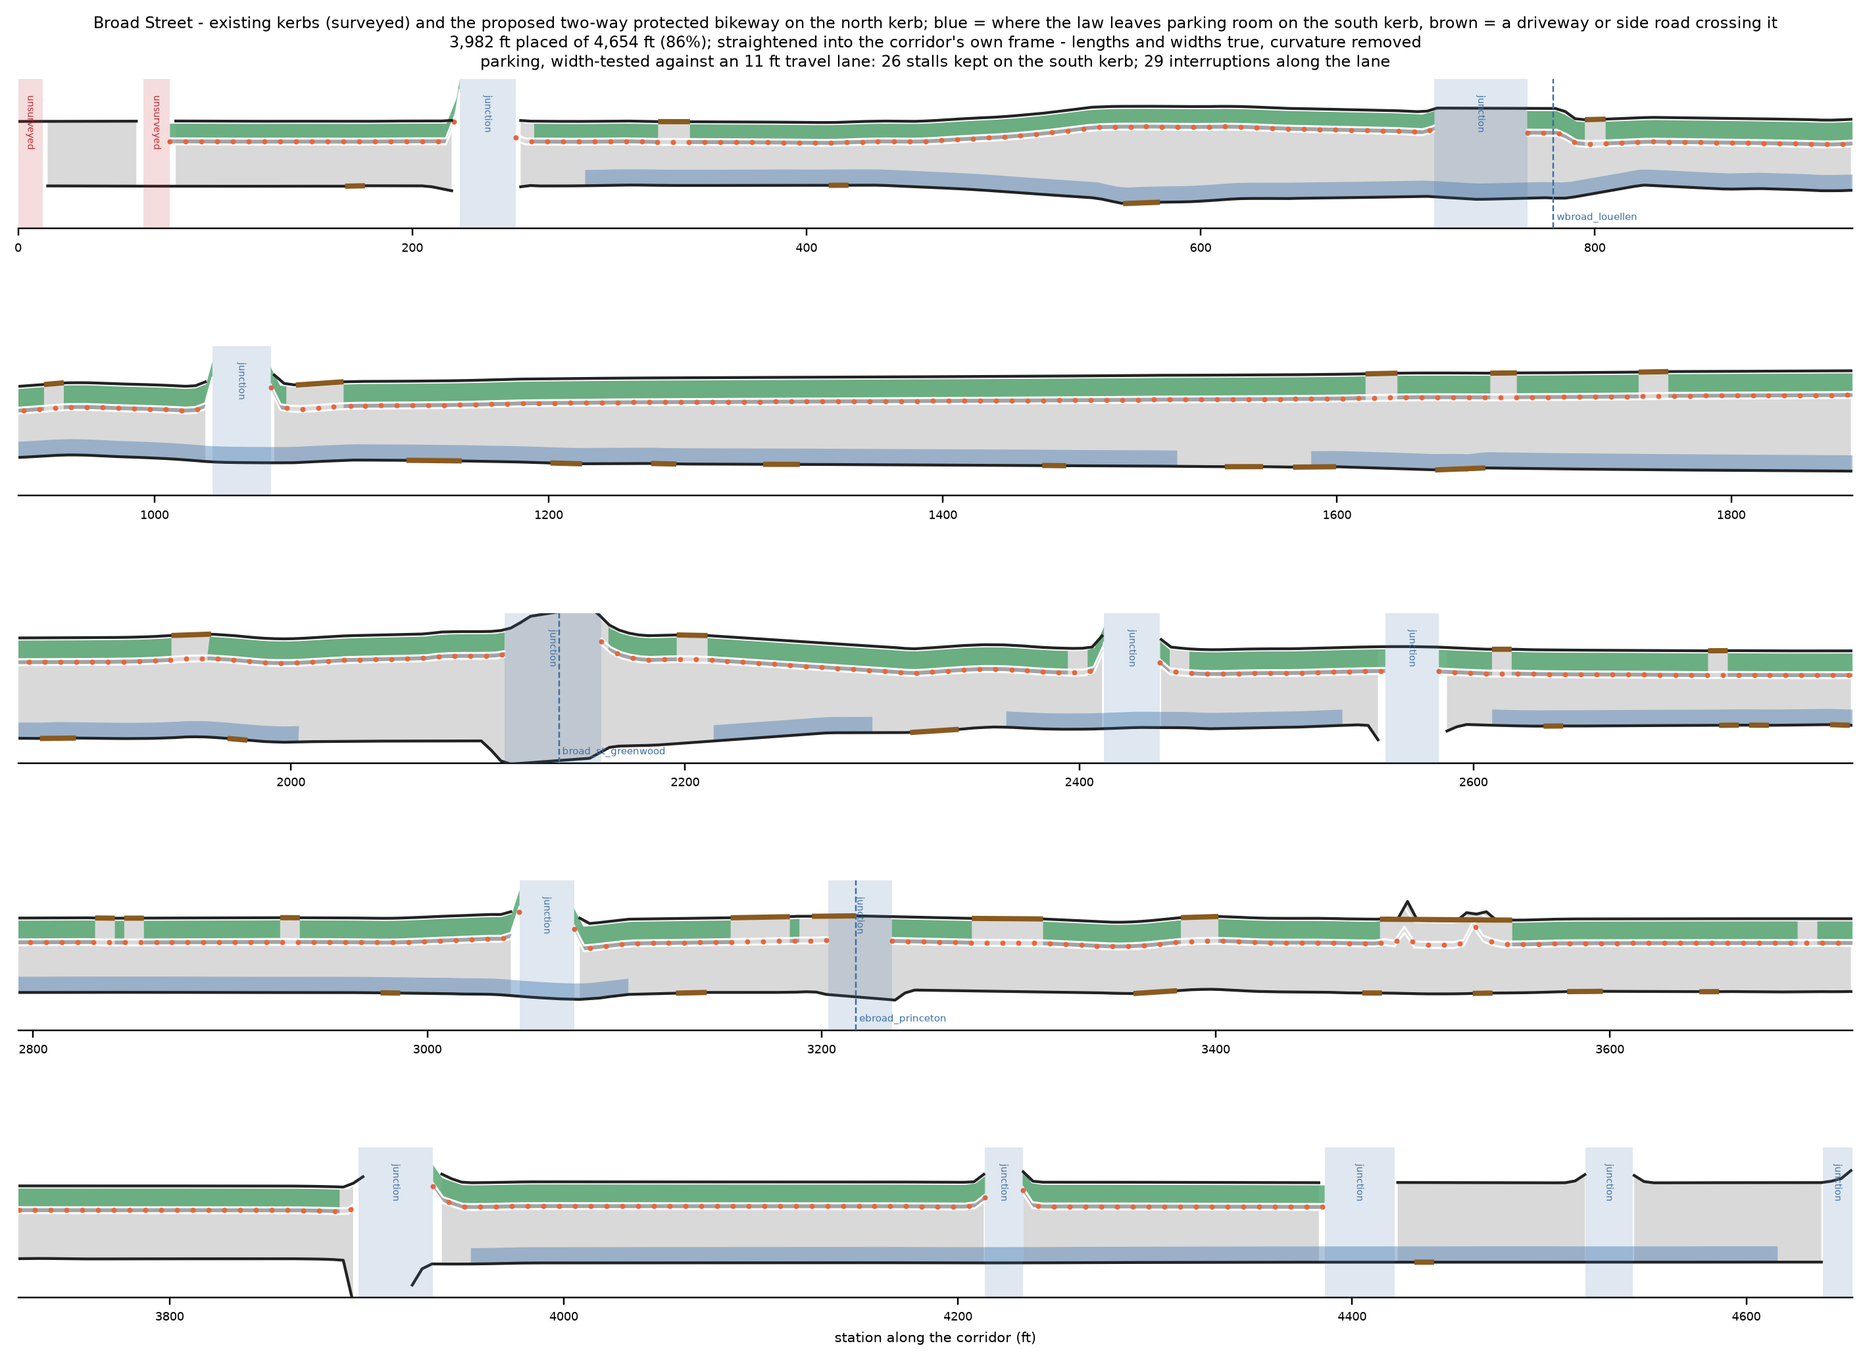
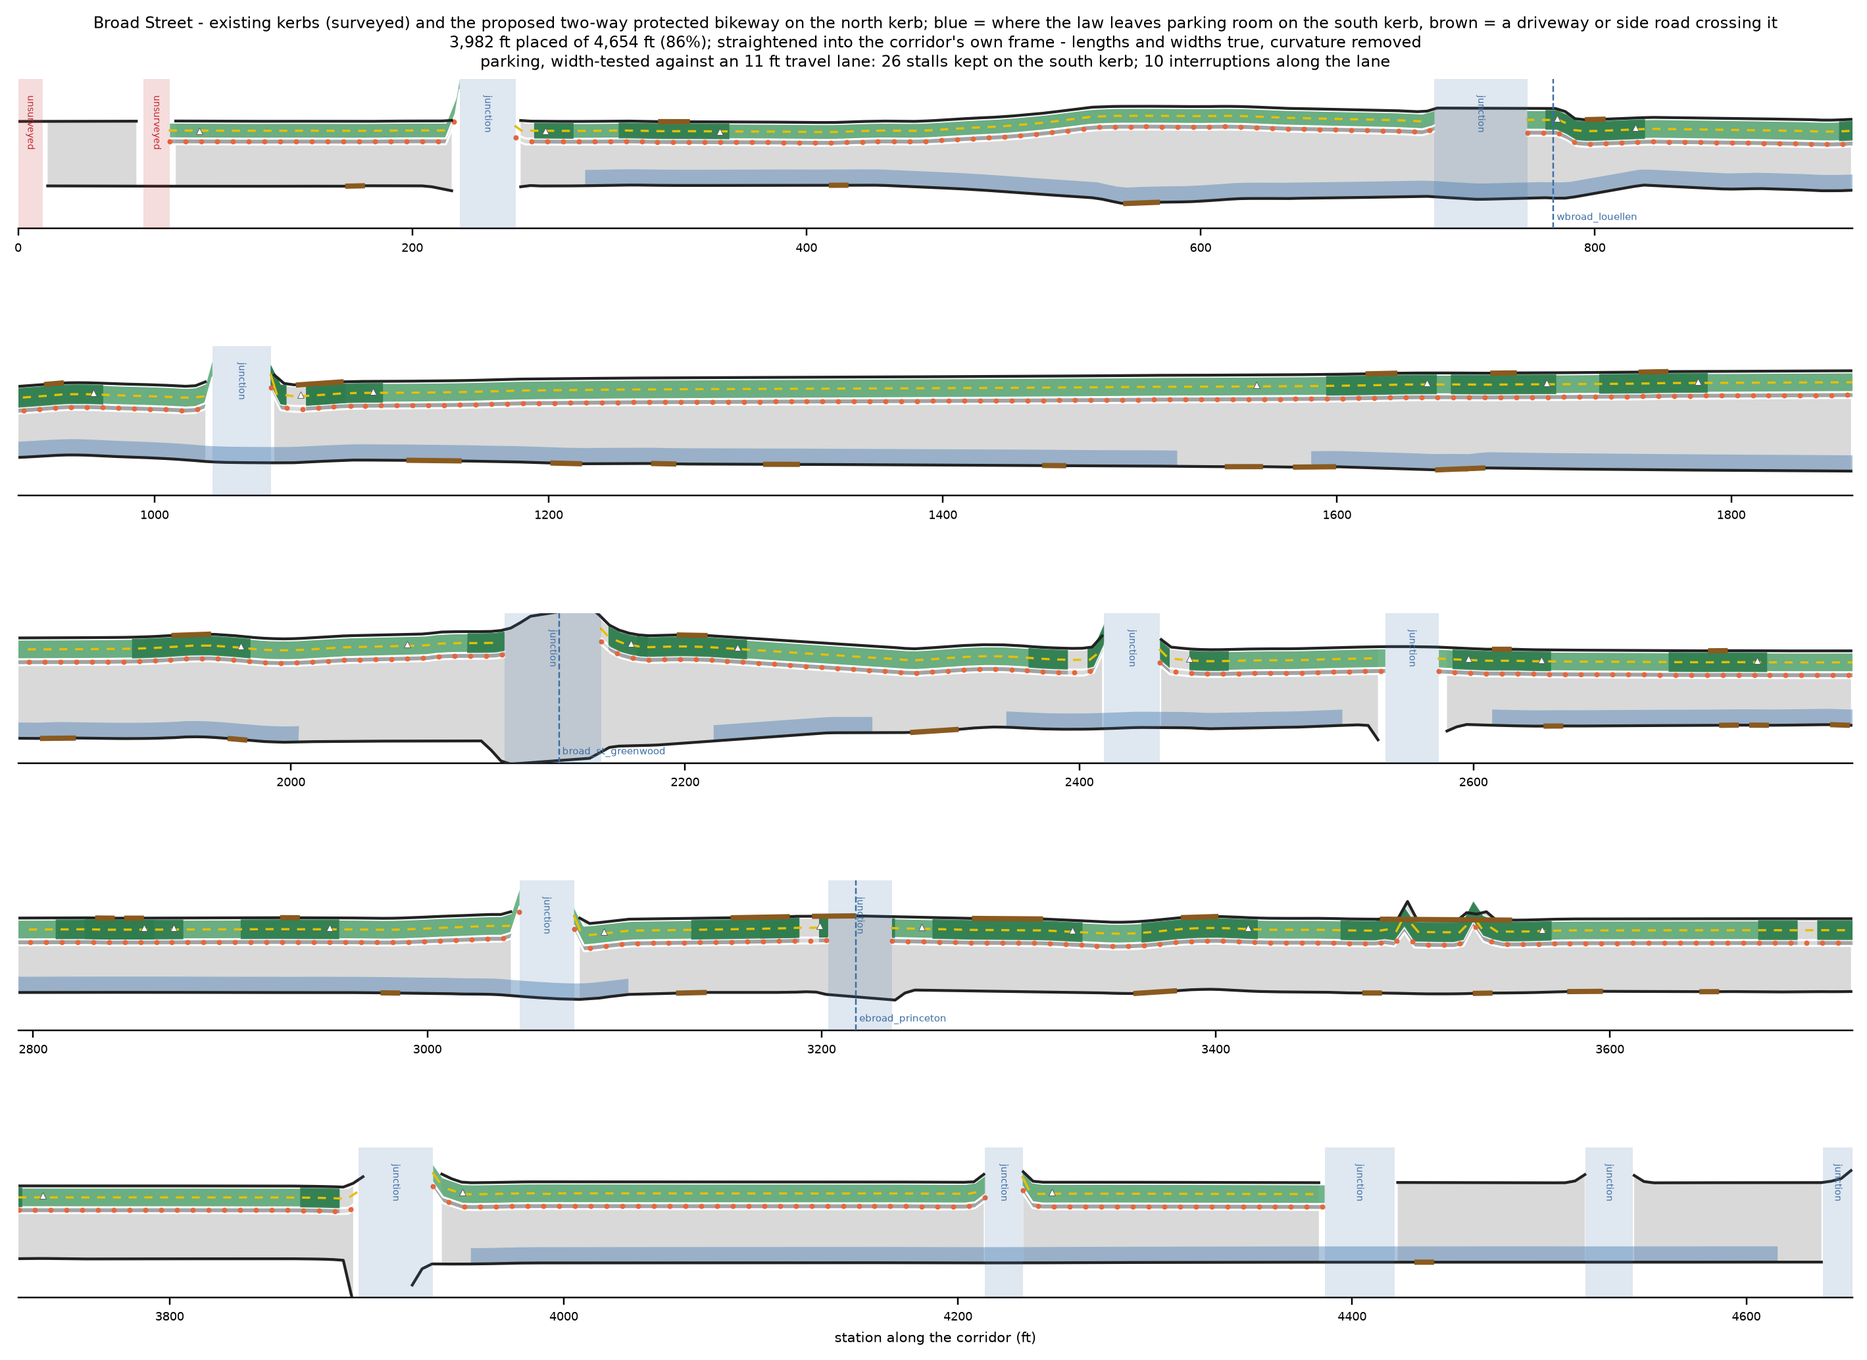
Carry the lane through every opening, and put down the three markings it was missing
FIRST, A DELETION. The corridor path cut the lane out at every driveway and side street. NACTO
requires a bidirectional lane to continue through them as a crossbike and explicitly rejects the
alternative, because merging riders into traffic sends the contraflow direction against its flow.
This project already knew: markings.AT_AN_OPENING gives BIKE_LANE_SURFACE and the lane's edge lines
DOTTED / DOTTED, and the per-leg paint has dotted them across all along. The corridor invented a
second, contradictory opinion - the fourth time this repo has paid for that shape of bug, and this
one was mine. break_spans is now two functions that say which is which: opening_spans (carried,
dotted) and crossing_spans (cut, because a pedestrian crossing does outrank the lane).

THEN THE THREE MARKINGS, as rules in src rather than as drawing code, so they hold wherever the
facility goes rather than only where this script draws it:

    symbol_stations        BIKE LANE symbol after every opening AND every 500 ft - both, since on
                           19 junctions the interval alone leaves long gaps and the mouths alone
                           cluster them
    green_extension_spans  conspicuity green 20 ft either side of every opening the lane crosses
    contraflow_centreline  the dotted YELLOW centreline, carried ACROSS every opening - the one
                           mark that must not stop where riders are crossed, because it is what
[…]

diff --git a/src/geometry/corridor_paint.py b/src/geometry/corridor_paint.py
@@ -95,8 +95,11 @@ class CorridorFacilityPaint:
     runs: list = field(default_factory=list)
     refusals: list = field(default_factory=list)
     untraced: list = field(default_factory=list)
-    #: (lo, hi) where the lane's markings break - a driveway mouth on its own kerb, or a crossing.
+    #: (lo, hi) where the lane is CUT - pedestrian crossings, which outrank it.
     breaks: tuple = ()
+    #: (lo, hi) where the lane CONTINUES but dotted - a driveway or side street on its own kerb.
+    #: The crossbike. See opening_spans for why these are not the same list.
+    dotted: tuple = ()
 
     @property
     def placed_ft(self) -> float:
@@ -190,25 +193,37 @@ def section_at(facility, near_half_ft: float, far_half_ft: float):
 CROSSING_BREAK_FT = 10.0
 
 
-def break_spans(corridor, facts, side: str) -> tuple:
-    """Where the facility's markings break: driveway mouths on its kerb, and every crossing.
+def opening_spans(corridor, facts, side: str) -> tuple:
+    """Driveway and side-street mouths on the facility's OWN kerb - where the lane goes DOTTED.
 
-    TWO DIFFERENT REASONS AND ONE CONSEQUENCE. A driveway mouth is a place vehicles cross the
-    lane, so the lane's lines and its colour go dotted over it (markings.AT_AN_OPENING). A
-    pedestrian crossing outranks whatever runs along the kerb, so the lane is cut around it - the
-    same rule the per-leg paint applies through PaintContext's crossing bands, which is not
-    reachable from a corridor.
+    IT DOES NOT BREAK HERE, and getting that wrong is the defect this function replaces. NACTO
+    (STANDARDS.md, verified 2026-08-18) requires a bidirectional lane to continue through every
+    intersection and driveway as a crossbike, and explicitly rejects the alternative because
+    merging riders into traffic would send the contraflow direction against its flow. This
+    project already knew that: `markings.AT_AN_OPENING` gives BIKE_LANE_SURFACE and the lane's
+    edge lines `DOTTED / DOTTED`, and the per-leg paint has always dotted them across.
 
-    THE OPENINGS ARE TAKEN FROM THIS KERB ONLY. A driveway on the far kerb does not touch this
-    lane, and counting it would break the facility at every mouth on the street rather than at the
-    ones a rider actually meets.
+    The corridor path invented a SECOND opinion - it deleted the lane at each mouth - which is the
+    "two records of one decision" failure this repo has now paid for four times. The spans come
+    back so the drawing can dot the lane over them; nothing is cut.
+
+    FROM THIS KERB ONLY. A mouth on the far kerb does not touch this lane.
     """
-    spans = [(opening.start_ft, opening.end_ft)
-             for opening_side, opening in facts.openings if opening_side == side]
-    spans += [(station_ft - CROSSING_BREAK_FT / 2, station_ft + CROSSING_BREAK_FT / 2)
-              for station_ft, _markings in facts.marked_crossings]
-    return tuple(sorted((max(lo, 0.0), min(hi, corridor.length_ft))
-                        for lo, hi in spans if hi > 0 and lo < corridor.length_ft))
+    return tuple(sorted((max(o.start_ft, 0.0), min(o.end_ft, corridor.length_ft))
+                        for opening_side, o in facts.openings
+                        if opening_side == side and o.end_ft > 0
+                        and o.start_ft < corridor.length_ft))
+
+
+def crossing_spans(corridor, facts) -> tuple:
+    """Pedestrian crossings - the ONE thing that does cut the lane.
+
+    A crossing outranks whatever runs along the kerb, which is the rule PaintContext's crossing
+    bands apply per leg and the one part of the old break_spans that was right.
+    """
+    return tuple(sorted((max(station_ft - CROSSING_BREAK_FT / 2, 0.0),
+                         min(station_ft + CROSSING_BREAK_FT / 2, corridor.length_ft))
+                        for station_ft, _markings in facts.marked_crossings))
 
 
 def _cut_around(geometry, corridor, side: str, spans, reach_ft: float = 60.0):
@@ -257,7 +272,9 @@ def paint_facility(corridor, facility, facts=None) -> CorridorFacilityPaint:
     # worth calling a facility; it has nothing to say about whether a GAP is worth admitting to.
     paint.untraced = [(lo, hi, _why_no_kerb(corridor, lo, hi))
                       for lo, hi in corridor.untraced_gaps_ft(min_ft=0.0)]
-    paint.breaks = break_spans(corridor, facts, side) if facts is not None else ()
+    if facts is not None:
+        paint.breaks = crossing_spans(corridor, facts)          # cut
+        paint.dotted = opening_spans(corridor, facts, side)     # carried across, dotted
 
     for span_lo, span_hi in corridor.both_traced_spans():
         if span_hi - span_lo < MIN_FACILITY_RUN_FT:
@@ -577,3 +594,78 @@ def stall_marks(corridor, side: str, spans, depth_ft: float | None = None,
                                            np.array([sign * offset]))
             marks.append(LineString([tuple(inner[0]), tuple(outer[0])]))
     return marks, stalls
+
+
+#: BIKE LANE symbol placement (MUTCD Fig 9E-1). NACTO: after every driveway and intersection, and
+#: at least every 500 ft along the lane. STANDARDS.md, verified 2026-08-18.
+SYMBOL_INTERVAL_FT = 500.0
+#: How far past an opening the reminder symbol sits - clear of the mouth itself, near enough to
+#: read as belonging to it.
+SYMBOL_AFTER_OPENING_FT = 15.0
+#: Green conspicuity surfacing approaching and departing an intersection or driveway. NACTO gives
+#: 20-50 ft; the low end is taken, because it is the figure that fits between the closely spaced
+#: mouths on this corridor without the extensions merging into one continuous green.
+GREEN_EXTENSION_FT = 20.0
+#: The contraflow centreline's cadence, imported rather than restated - NACTO requires a dotted
+#: YELLOW centreline along a bidirectional lane and in its crossbikes.
+def _contraflow_cadence():
+    from src.geometry.treatments.bikeways import CONTRAFLOW_DASH_FT, CONTRAFLOW_GAP_FT
+
+    return CONTRAFLOW_DASH_FT, CONTRAFLOW_GAP_FT
+
+
+def symbol_stations(paint: CorridorFacilityPaint) -> tuple:
+    """Stations for the BIKE LANE symbol: after each opening, and every SYMBOL_INTERVAL_FT.
+
+    Both rules, not either - NACTO asks for the reminder after every mouth AND a floor on the
+    interval, and on a corridor with 19 junctions the interval alone would leave long stretches
+    unmarked while the mouths alone would cluster them.
+    """
+    at = []
+    for run in paint.runs:
+        at.append(run.start_ft + SYMBOL_AFTER_OPENING_FT)
+        station = run.start_ft + SYMBOL_INTERVAL_FT
+        while station < run.end_ft:
+            at.append(station)
+            station += SYMBOL_INTERVAL_FT
+        for _lo, hi in paint.dotted:
+            if run.start_ft < hi < run.end_ft:
+                at.append(hi + SYMBOL_AFTER_OPENING_FT)
+    return tuple(sorted(s for s in at
+                        if any(r.start_ft <= s <= r.end_ft for r in paint.runs)))
+
+
+def green_extension_spans(paint: CorridorFacilityPaint, reach_ft: float | None = None) -> tuple:
+    """Where the lane gets conspicuity green: reach_ft either side of every opening it crosses."""
+    reach_ft = GREEN_EXTENSION_FT if reach_ft is None else reach_ft
+    spans = [(lo - reach_ft, hi + reach_ft) for lo, hi in paint.dotted]
+    spans += [(lo - reach_ft, hi + reach_ft) for lo, hi in paint.breaks]
+    return tuple(sorted(spans))
+
+
+def contraflow_centreline(corridor, paint: CorridorFacilityPaint):
+    """The dotted yellow centreline down each run, CONTINUING across every opening.
+
+    Continuing is the point: NACTO asks for the dotted yellow both along a bidirectional lane and
+    in its crossbikes, so the mark that tells a driver two directions of riders are present is the
+    one mark that must not stop where they cross.
+    """
+    dash_ft, gap_ft = _contraflow_cadence()
+    on = Alignment(corridor.centerline)
+    sign = 1.0 if paint.side == "left" else -1.0
+    out = []
+    for run in paint.runs:
+        if run.section is None:
+            continue
+        kerb = run.section.offsets_from_kerb_ft()
+        middle = (kerb["bike_outer_ft"] + kerb["bike_inner_ft"]) / 2
+        station = run.start_ft
+        while station + dash_ft <= run.end_ft:
+            offs = [kerb_offset_ft(corridor, paint.side, s) for s in (station, station + dash_ft)]
+            if all(o is not None for o in offs):
+                pts = place_in_measured_frame(
+                    on.centerline, np.array([station, station + dash_ft]),
+                    np.array([sign * (offs[0] - middle), sign * (offs[1] - middle)]))
+                out.append(LineString([tuple(pts[0]), tuple(pts[1])]))
+            station += dash_ft + gap_ft
+    return out

diff --git a/scripts/corridor_render.py b/scripts/corridor_render.py
@@ -32,7 +32,8 @@ from matplotlib.patches import Rectangle
 from src.geometry.corridor_paint import (CORRIDOR_SAMPLE_FT, JUNCTION_MOUTH,
                                          centred_on_its_kerbs, far_kerb_lane_edge,
                                          kerb_offset_ft, paint_facility, parking_bands,
-                                         stall_marks, stall_room_spans)
+                                         contraflow_centreline, green_extension_spans,
+                                         stall_marks, stall_room_spans, symbol_stations)
 from src.geometry.intersection import load_intersection_model
 from src.geometry.model import station_offset_many
 from src.geometry.network import (_complement_spans, _merged_spans, corridor_facts,
@@ -46,6 +47,8 @@ LANE_GREEN = "#57a773"
 BUFFER_GREY = "#9a9a9a"
 PAINT_WHITE = "#ffffff"
 POST = "#e8663c"
+GREEN_HOT = "#2f7d4f"
+YELLOW = "#e6c000"
 PARKING_BLUE = "#4b7fb5"
 OPENING = "#8a5a1f"
 GAP_RED = "#c1272d"
@@ -81,6 +84,17 @@ def _stalls_kept(corridor, facts, paint, far_side: str) -> int:
     return count
 
 
+def _band_across(corridor, side, lo_ft, hi_ft):
+    """A full-depth window over one station range, for intersecting a marking out of the lane."""
+    from src.geometry.model import Alignment, band_from_offsets
+
+    if hi_ft - lo_ft <= 0:
+        return None
+    stations = np.linspace(lo_ft, hi_ft, max(int((hi_ft - lo_ft) / 2.0) + 2, 3))
+    return band_from_offsets(Alignment(corridor.centerline), side, stations,
+                             np.zeros(len(stations)), np.full(len(stations), 60.0))
+
+
 def straighten(corridor, geometry):
     """One geometry's parts, each as (station, offset) in the corridor's frame.
 
@@ -103,7 +117,7 @@ def straighten(corridor, geometry):
 
 
 def draw_panel(ax, corridor, paint, parking, openings, lo_ft, hi_ft, half_ft,
-               marks=(), daylight=()):
+               marks=(), daylight=(), extras=None):
     grid = np.arange(lo_ft, hi_ft, CORRIDOR_SAMPLE_FT)
     left = np.array([kerb_offset_ft(corridor, "left", float(s)) or np.nan for s in grid])
     right = np.array([-(kerb_offset_ft(corridor, "right", float(s)) or np.nan) for s in grid])
@@ -159,6 +173,24 @@ def draw_panel(ax, corridor, paint, parking, openings, lo_ft, hi_ft, half_ft,
             inside = (st >= lo_ft) & (st <= hi_ft)
             ax.plot(st[inside], off[inside], linestyle="none", marker="o", markersize=1.6,
                     color=POST, zorder=5)
+
+    if extras:
+        # Conspicuity green either side of every opening the lane crosses, laid UNDER the lane's
+        # own colour so the two read as one surface with a hotter approach rather than two greens.
+        for geometry in extras.get("green", ()):
+            for xy in straighten(corridor, geometry):
+                ax.fill(xy[:, 0], xy[:, 1], color=GREEN_HOT, alpha=0.9, linewidth=0, zorder=4)
+        # The dotted YELLOW centreline - the one mark that carries across every crossbike, because
+        # it is what tells a driver there are riders coming both ways.
+        for line in extras.get("yellow", ()):
+            for xy in straighten(corridor, line):
+                if lo_ft <= xy[:, 0].mean() <= hi_ft:
+                    ax.plot(xy[:, 0], xy[:, 1], color=YELLOW, lw=1.1, zorder=6)
+        # BIKE LANE symbols, as a marker at each station the rule puts one.
+        for station, offset in extras.get("symbols", ()):
+            if lo_ft <= station <= hi_ft:
+                ax.plot([station], [offset], marker="^", markersize=3.4, color=PAINT_WHITE,
+                        markeredgecolor="#555555", markeredgewidth=0.3, zorder=7)
 
     # WHERE A VEHICLE CROSSES THE KERB. Drawn on the kerb it actually breaks, because that is the
     # asymmetry that matters here: a driveway on the north kerb interrupts the parking, and one on
@@ -343,11 +375,36 @@ def main() -> int:
     parking = parking_bands(corridor, facts, far_side)
     openings = tuple((side, opening.start_ft, opening.end_ft) for side, opening in facts.openings)
 
+    # The three markings NACTO asks for besides the lane itself (STANDARDS.md, 2026-08-18).
+    green = []
+    for lo, hi in green_extension_spans(paint):
+        for run in paint.runs:
+            if run.lane_surface is None or hi < run.start_ft or lo > run.end_ft:
+                continue
+            window = _band_across(corridor, paint.side, max(lo, run.start_ft),
+                                  min(hi, run.end_ft))
+            if window is not None:
+                piece = run.lane_surface.intersection(window)
+                if not piece.is_empty:
+                    green.append(piece)
+    sign = 1.0 if paint.side == "left" else -1.0
+    symbols = []
+    for station in symbol_stations(paint):
+        offset = kerb_offset_ft(corridor, paint.side, station)
+        if offset is not None:
+            symbols.append((station, sign * (offset - 5.0)))
+    extras = {"green": tuple(green), "yellow": tuple(contraflow_centreline(corridor, paint)),
+              "symbols": tuple(symbols)}
+    print(f"  markings besides the lane: {len(extras['yellow'])} yellow centreline dashes, "
+          f"{len(symbols)} BIKE LANE symbols, {len(green)} green conspicuity zones; the lane is "
+          f"DOTTED across {len(paint.dotted)} openings and cut at {len(paint.breaks)} crossings")
+
     half_ft = 38.0
     edges = np.linspace(0.0, corridor.length_ft, args.panels + 1)
     fig, axes = plt.subplots(args.panels, 1, figsize=(13, 2.0 * args.panels))
     for ax, lo, hi in zip(np.atleast_1d(axes), edges[:-1], edges[1:]):
-        draw_panel(ax, corridor, paint, parking, openings, float(lo), float(hi), half_ft)
+        draw_panel(ax, corridor, paint, parking, openings, float(lo), float(hi), half_ft,
+                   extras=extras)
     axes[0].set_title(
         f"{corridor.name} - existing kerbs (surveyed) and the proposed two-way protected bikeway "
         f"on the {paint.compass_side} kerb; blue = where the law leaves parking room on the "

diff --git a/STANDARDS.md b/STANDARDS.md
@@ -335,13 +335,20 @@ authority may be stricter than NACTO; it may not be stricter and pretend NACTO r
 
 | marking | rule | drawn? |
 |---|---|---|
-| **Crossbikes** through **all** intersections **and driveways** - alleys, minor and major cross-streets alike | required; the lane *"must continue through intersections and driveways"* and cannot merge into traffic | **NO - and the corridor render currently does the OPPOSITE** |
-| Dotted **yellow** centreline along the lane **and in the crossbikes** | required | lane only |
-| BIKE LANE symbol / word marking (MUTCD Fig 9E-1) | after every driveway and intersection, and at least every 500 ft | no |
-| Green surfacing | optional full length; or 20-50 ft approaching/departing each intersection and driveway | no |
+| **Crossbikes** through **all** intersections **and driveways** - alleys, minor and major cross-streets alike | required; the lane *"must continue through intersections and driveways"* and cannot merge into traffic | **yes** - `corridor_paint.opening_spans`, dotted per `markings.AT_AN_OPENING` |
+| Dotted **yellow** centreline along the lane **and in the crossbikes** | required | **yes** - `contraflow_centreline`, carried across every opening |
+| BIKE LANE symbol / word marking (MUTCD Fig 9E-1) | after every driveway and intersection, and at least every 500 ft | **yes** - `symbol_stations`, both rules |
+| Green surfacing | optional full length; or 20-50 ft approaching/departing each intersection and driveway | **yes** - `green_extension_spans`, 20 ft |
 | Solid white line along **both** buffer edges | required for street-level lanes | yes |
-| Diagonals or chevrons in the buffer | **required** at ≥3 ft buffer, spacing ≥10 ft; diagonals slant away from adjacent traffic's direction | partly |
+| Diagonals or chevrons in the buffer | **required** at ≥3 ft buffer; diagonals slant away from adjacent traffic's direction | partly |
 | Warning signage for two-way bike traffic (modified MUTCD W6-3) | at any T intersection or major driveway | n/a (signs) |
+
+**BUFFER MARKING SPACING IS LEFT ALONE, DELIBERATELY.** The guide's sentence gives it as "10 ft
+(2 m)", and those two figures disagree - 2 m is 6.6 ft - so one of them is a typo and it is not
+knowable from this text which. Our hatching is at 2 ft. Danny's read is that the 10 ft figure
+describes something other than stroke pitch, and on an internally inconsistent sentence that is the
+safer conclusion: nothing changes until the printed guide is checked. Recorded rather than dropped,
+because a 5x discrepancy in a required marking is worth someone's eyes.
 
 **THE CROSSBIKE ROW IS A DEFECT IN OUR DRAWING, not a missing nicety.** `081e990` broke the lane at
 all 33 crossings and driveway mouths, on the reasoning that a crossing outranks what runs along the
